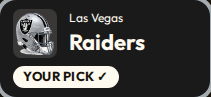
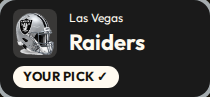
Give week cards room before they split into two columns.
Two columns and the divider now start at 1200px. Below that the week is one centered column, unpicked winner names ellipsize ahead of the W and score, and the divider is half the theme accent.

diff --git a/src/styles.css b/src/styles.css
@@ -85,7 +85,12 @@ main {
 }
 .save { min-height: 1.2em; margin: 8px 0 0; color: var(--good); }
 .save.error { color: var(--bad); }
-.games { display: grid; gap: 12px; }
+.games {
+  display: grid;
+  gap: 12px;
+  width: min(680px, 100%);
+  margin-inline: auto;
+}
 .game, .panel, .welcome {
   background: var(--card);
   background: color-mix(in srgb, var(--card) 92%, black);
@@ -114,6 +119,7 @@ main {
   align-items: stretch;
   gap: 8px;
   width: 100%;
+  min-width: 0;
   min-height: 76px;
   text-align: left;
   border-radius: 16px;
@@ -132,6 +138,15 @@ main {
   min-width: 0;
 }
 .team-name { flex: 1 1 auto; min-width: 0; }
+.team-name small,
+.team-name strong {
+  display: block;
+  min-width: 0;
+  max-width: 100%;
+  overflow: hidden;
+  text-overflow: ellipsis;
+  white-space: nowrap;
+}
 .team small { display: block; color: var(--faint); font-size: 12px; }
 .team strong { font-size: 22px; color: var(--text); }
 .team .score { margin-left: auto; flex: none; font-family: var(--display); font-size: 36px; }
@@ -224,6 +239,10 @@ main {
 .team.aside .team-name strong {
   color: var(--text);
   opacity: 0.5;
+  min-width: 0;
+  overflow: hidden;
+  text-overflow: ellipsis;
+  white-space: nowrap;
 }
 .team.aside .helmet { background: transparent; }
 .team.aside .helmet img {
@@ -231,13 +250,19 @@ main {
   opacity: 0.85;
 }
 .team.aside .score,
-.team.aside .winner-mark { opacity: 1; }
+.team.aside .winner-mark {
+  flex: none;
+  opacity: 1;
+}
+.team.aside .score { font-size: 28px; }
 .versus {
+  display: none;
   align-self: center;
   justify-self: center;
   color: var(--muted);
-  font-size: 14px;
+  font-size: 16px;
   font-weight: 700;
+  line-height: 1;
   letter-spacing: 0.04em;
   opacity: 0.72;
   pointer-events: none;
@@ -607,9 +632,21 @@ main {
     padding: 24px 12px;
   }
   main { padding: 12px 28px 48px; }
+  .match { grid-template-columns: minmax(0, 1fr) minmax(0, 1fr); }
+  .match.picked { grid-template-columns: minmax(0, 1fr) auto minmax(0, 1fr); }
+  .versus {
+    display: block;
+    align-self: start;
+    margin-top: calc(8px + (40px / 0.9) / 2);
+    transform: translateY(-50%);
+  }
+}
+@media (min-width: 1200px) {
   .games {
     position: relative;
-    grid-template-columns: 1fr 1fr;
+    width: 100%;
+    margin-inline: 0;
+    grid-template-columns: minmax(0, 1fr) minmax(0, 1fr);
     column-gap: 48px;
   }
   .games::before {
@@ -622,11 +659,9 @@ main {
     width: 2px;
     transform: translateX(-50%);
     background: var(--accent);
-    opacity: 0.3;
+    opacity: 0.5;
     pointer-events: none;
     -webkit-mask-image: linear-gradient(to bottom, transparent, #000 16%, #000 84%, transparent);
     mask-image: linear-gradient(to bottom, transparent, #000 16%, #000 84%, transparent);
   }
-  .match { grid-template-columns: 1fr 1fr; }
-  .match.picked { grid-template-columns: minmax(0, 1fr) auto minmax(0, 1fr); }
 }
